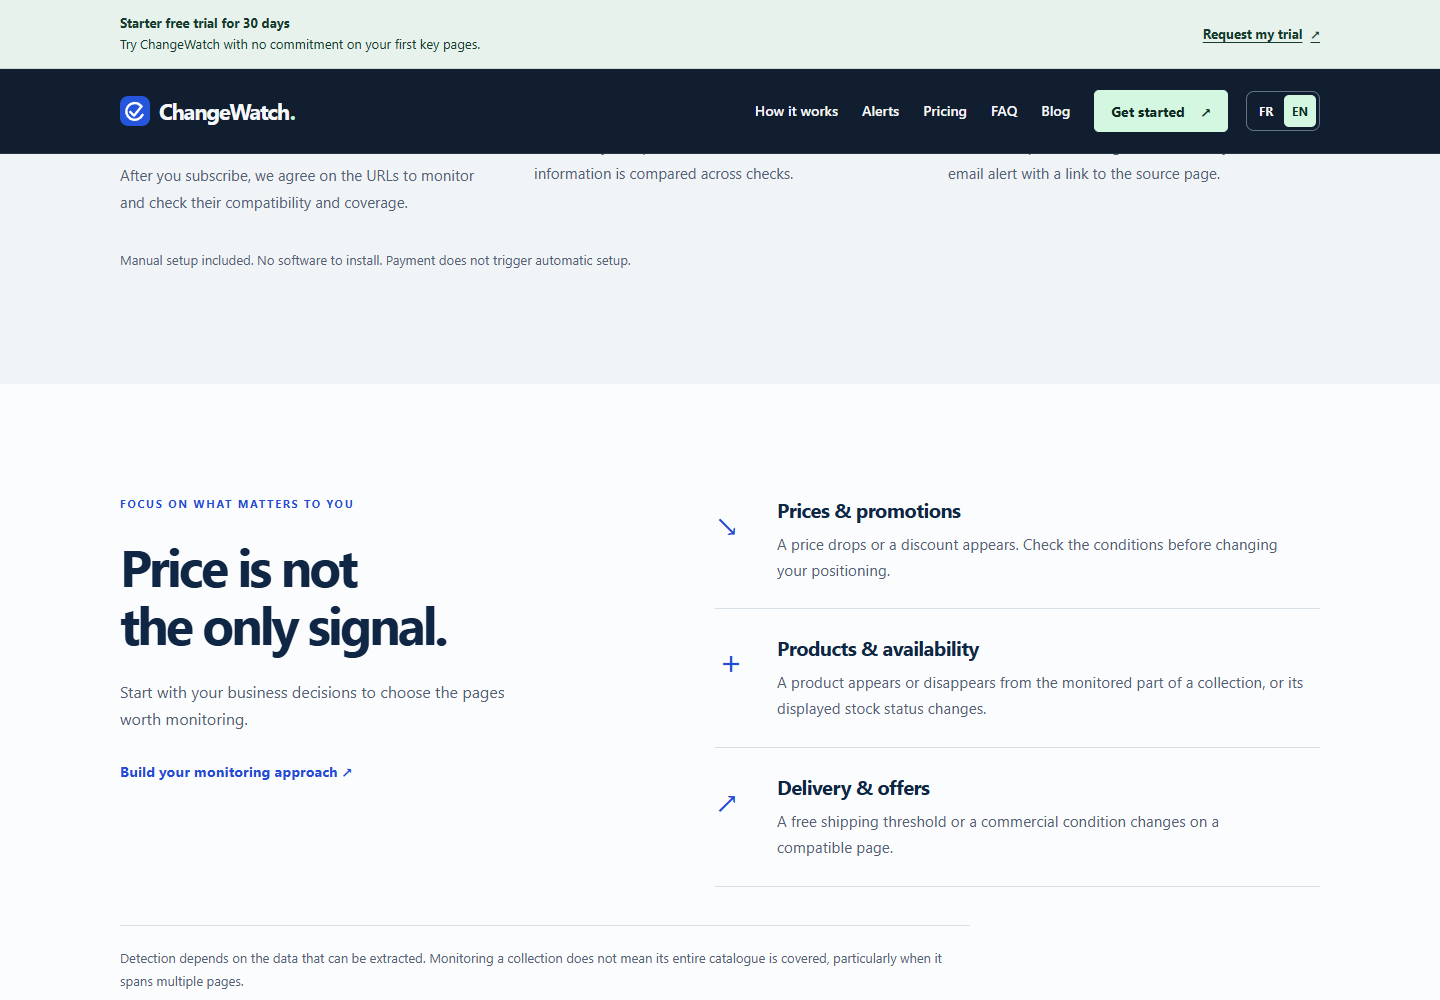
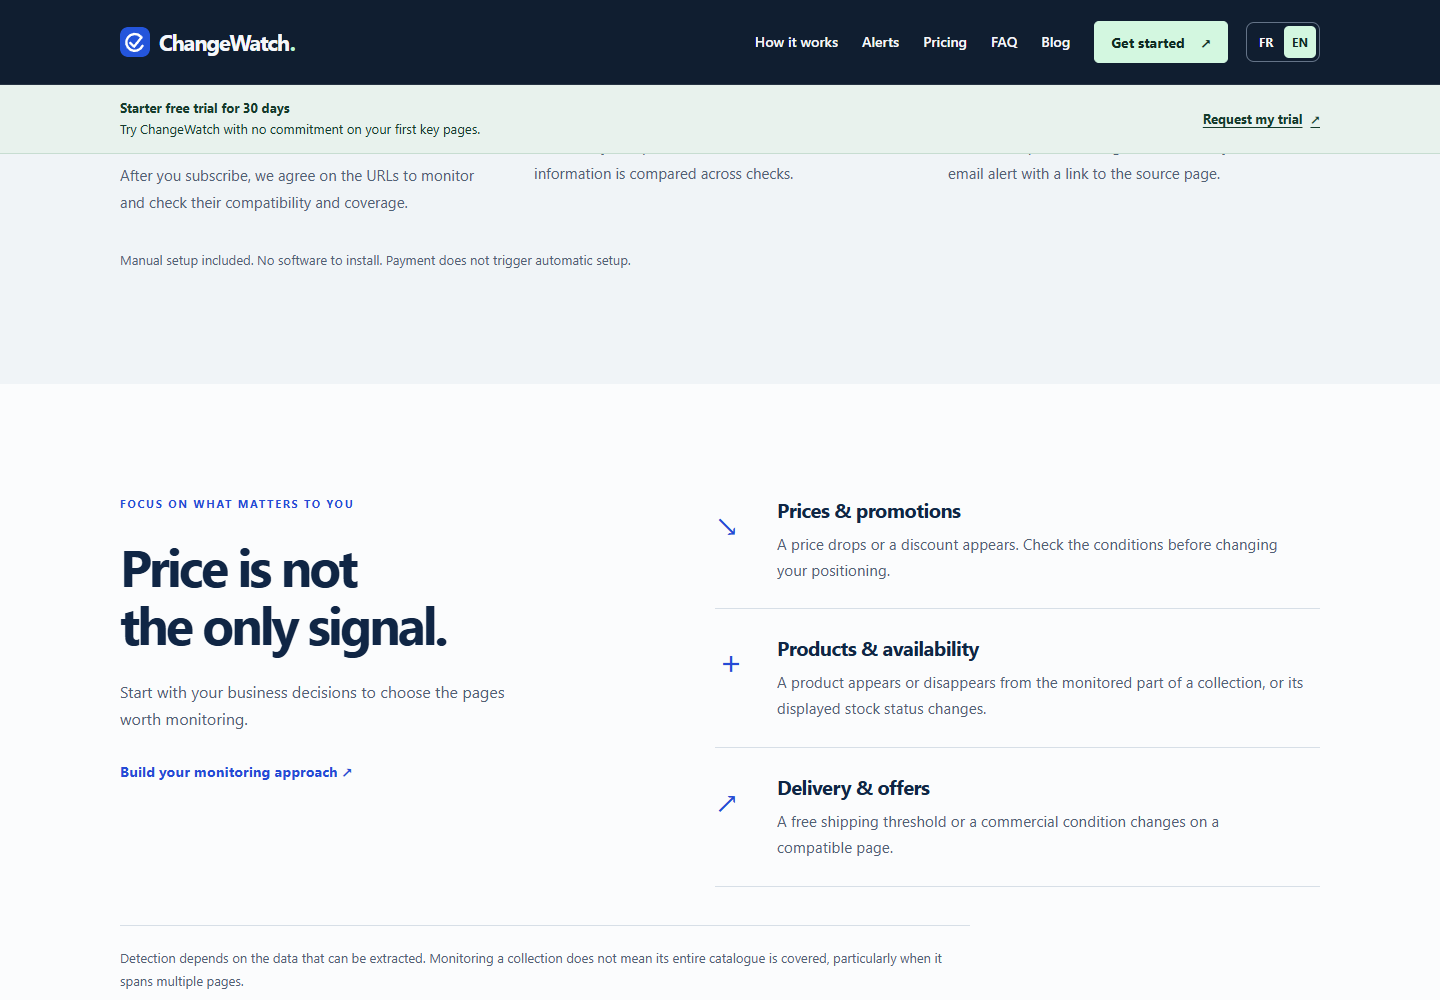
Place navigation above the sticky Starter announcement

Changed region(s): [[0.0, 0.0, 1.0, 0.155]]

diff --git a/index.html b/index.html
@@ -33,7 +33,6 @@
 <body class="story-home">
 <a class="skip-link" href="#contenu">Aller au contenu</a>
 <div class="sticky-top">
-<aside class="launch-banner" aria-label="Essai gratuit Starter pendant 30 jours"><div class="container"><p><strong><span class="banner-desktop-title">Essai gratuit Starter pendant 30 jours</span><span class="banner-mobile-title">30 jours gratuits sur Starter</span></strong><span>Testez ChangeWatch sans engagement sur vos premières pages clés.</span></p><a href="#demande" data-starter-trial>Demander mon essai <span aria-hidden="true">↗</span></a></div></aside>
 <header class="header">
   <nav class="container nav" aria-label="Navigation principale">
     <a class="brand" href="#" aria-label="ChangeWatch, accueil"><img src="assets/favicon.svg" width="30" height="30" alt="">ChangeWatch<span class="brand-period">.</span></a>
@@ -45,6 +44,7 @@
     </div>
   </nav>
 </header>
+<aside class="launch-banner" aria-label="Essai gratuit Starter pendant 30 jours"><div class="container"><p><strong><span class="banner-desktop-title">Essai gratuit Starter pendant 30 jours</span><span class="banner-mobile-title">30 jours gratuits sur Starter</span></strong><span>Testez ChangeWatch sans engagement sur vos premières pages clés.</span></p><a href="#demande" data-starter-trial>Demander mon essai <span aria-hidden="true">↗</span></a></div></aside>
 </div>
 <main id="contenu">
   <section class="story-hero" aria-labelledby="hero-title">

diff --git a/en/index.html b/en/index.html
@@ -33,7 +33,6 @@
 <body class="story-home">
 <a class="skip-link" href="#contenu">Skip to content</a>
 <div class="sticky-top">
-<aside class="launch-banner" aria-label="Starter free trial for 30 days"><div class="container"><p><strong><span class="banner-desktop-title">Starter free trial for 30 days</span><span class="banner-mobile-title">30 days free on Starter</span></strong><span>Try ChangeWatch with no commitment on your first key pages.</span></p><a href="#demande" data-starter-trial>Request my trial <span aria-hidden="true">↗</span></a></div></aside>
 <header class="header">
   <nav class="container nav" aria-label="Main navigation">
     <a class="brand" href="#" aria-label="ChangeWatch, home"><img src="/assets/favicon.svg" width="30" height="30" alt="">ChangeWatch<span class="brand-period">.</span></a>
@@ -45,6 +44,7 @@
     </div>
   </nav>
 </header>
+<aside class="launch-banner" aria-label="Starter free trial for 30 days"><div class="container"><p><strong><span class="banner-desktop-title">Starter free trial for 30 days</span><span class="banner-mobile-title">30 days free on Starter</span></strong><span>Try ChangeWatch with no commitment on your first key pages.</span></p><a href="#demande" data-starter-trial>Request my trial <span aria-hidden="true">↗</span></a></div></aside>
 </div>
 <main id="contenu">
   <section class="story-hero" aria-labelledby="hero-title">

diff --git a/assets/launch-offer.css b/assets/launch-offer.css
@@ -1,4 +1,4 @@
-/* Shared natural-height sticky stack: announcement followed by navigation. */
+/* Shared natural-height sticky stack: navigation followed by announcement. */
 .launch-banner{background:#e8f2ed;color:#163b2c;border-bottom:1px solid #c7ddd1;font-size:.8125rem;line-height:1.6}
 .launch-banner>.container{display:flex;align-items:center;justify-content:space-between;gap:12px;padding-block:12px}
 .launch-banner p{margin:0}.launch-banner p span{margin-left:10px}.launch-banner a{color:inherit;font-weight:750;flex-shrink:0;text-underline-offset:3px;padding:5px 0}
@@ -8,7 +8,7 @@
 
 .story-home .sticky-top{position:sticky;top:0;z-index:10;max-height:100dvh;overflow-y:auto}
 .story-home .sticky-top .header{position:static}
-.story-home .sticky-top .launch-banner{position:sticky;top:0;z-index:1}
+.story-home .sticky-top .launch-banner{position:static}
 .launch-banner a{display:inline-flex;align-items:center;gap:8px;min-height:44px;text-decoration:underline}
 .launch-banner p span{display:block;margin-left:0}
 html:has(.sticky-top){scroll-padding-top:var(--sticky-offset,18rem)}

diff --git a/docs/starter-banner/README.md b/docs/starter-banner/README.md
@@ -1,46 +1,36 @@
-# Bandeau Starter sticky — validation locale
+# Header au-dessus du bandeau Starter — validation
 
-Branche créée depuis `origin/main` au commit `cde98b9` (PR #16 déjà intégrée par le propriétaire). Pas de fusion ni déploiement dans cette livraison.
+La PR #17 a déjà été fusionnée dans main (`51f0d08`). Le propriétaire a explicitement autorisé une nouvelle PR en brouillon pour ce correctif. Branche : `codex/header-above-starter-banner`, issue de ce main. Aucune fusion ni publication dans cette livraison.
 
-## Modification
+## Périmètre
 
-Le bandeau global FR/EN annonce désormais l’essai Starter de 30 jours et pointe vers `#demande`. Son attribut `data-starter-trial` réutilise sans modification les mécanismes de présélection et de tracking existants. Le contenu tarifaire, les quatre liens Stripe, la promotion Business, le formulaire complet et les scripts Analytics/Ads/consentement sont inchangés.
+Seul l’ordre du bloc sticky change : **header/navigation, puis bandeau Starter**. Le contenu HTML du header et du bandeau est conservé ; l’aside est déplacé après le header dans `.sticky-top`, sans duplication. Son positionnement sticky individuel est retiré : les deux composants restent dans le flux naturel du conteneur sticky commun, fixé au haut de la fenêtre pendant le scroll.
 
-Le bandeau et le header sont regroupés dans `.sticky-top`, un conteneur `position:sticky; top:0`, de hauteur naturelle. Le header reste dans le flux sous le bandeau : aucun offset fixe entre eux. Le conteneur est limité à la hauteur du viewport et reste défilable si le menu ou le zoom dépassent cette hauteur ; le bandeau reste sticky dans ce conteneur. Son niveau de superposition laisse le lien d’évitement clavier au-dessus.
+Aucune hauteur fixe ni nouveau JavaScript. Le ResizeObserver existant mesure toujours la hauteur cumulée et alimente `--sticky-offset` pour les ancres. Aucune modification du formulaire, des tarifs, de Business/Pro, des quatre liens Stripe, de Turnstile, de GA4/Ads/consentement, des événements, des articles ou du SEO.
 
-`ResizeObserver` ne pilote pas le sticky : il mesure uniquement la hauteur cumulée pour `--sticky-offset` / `scroll-padding-top`. Cela évite de figer une hauteur fragile pour les ancres malgré traductions, menu ouvert, retours à la ligne et zoom. Le formulaire garde une marge supplémentaire de 16 px. Sans JS, le sticky CSS reste actif avec un dégagement d’ancre conservateur de 18 rem ; l’envoi du formulaire conserve son alternative email existante.
+Mobile inchangé : breakpoint `max-width:600px`, titre court, phrase secondaire masquée, CTA >=44 px ; bandeau de **57 px** à 320/375/390 dans les deux langues. Dès 601 px, le titre long et la phrase secondaire restent visibles. Les dimensions et styles calculés du header, du bandeau et de leurs descendants sont comparés à `2187f36`, à chacune des six largeurs.
 
-## CTA et mesure
+## Parcours et tracking
 
-Le clic sélectionne l’essai dans `request_type` et donne le focus au formulaire, sans remplir les autres champs. Les autres CTA continuent de sélectionner la compatibilité. Le choix reste modifiable.
+Le CTA conserve `href="#demande"` et `data-starter-trial`. Il présélectionne l’essai FR/EN sans remplir les autres champs. Les autres CTA conservent la compatibilité et le choix reste modifiable. `free_trial_click` reste limité au consentement Analytics avec `plan:starter`, `destination:demande` ; `commercial_cta_click` est conservé. Pas de donnée formulaire ni `request_type` vers Google. Les conversions restent liées au succès Formspree.
 
-Après consentement Analytics : un `free_trial_click` avec `plan:starter`, `destination:demande`, routé uniquement vers GA4 ; `commercial_cta_click` conservé. Aucun événement d’essai ne devient une conversion Ads. Aucun changement du label Ads, de `generate_lead`, des champs envoyés ou de Turnstile. Aucune donnée personnelle ni `request_type` dans les événements.
+## Tests et limites
 
-## Contrôles
+Les logs sont dans `logs/`. `starter-banner` vérifie le header à y=0, le bandeau exactement sous son bord inférieur, leur visibilité avant/après un scroll de 2500 px, l’absence de chevauchement/espace/overflow, les ancres tarifs/demande/fonctionnement/alertes/FAQ, le menu mobile, le focus clavier et le lien d’évitement, la zone CTA, les dimensions/styles inchangés, axe, le zoom CSS 200 %, la présélection et les événements fixes après consentement.
 
-Logs dans `logs/`. Les tests utilisent Edge headless et interceptent les services externes : pas de demande Formspree, paiement ou collecte Google réels. Les événements Google sont vérifiés dans l’iframe ou avec le tag simulé, pas dans les rapports GA4.
+Le premier essai utilisait une comparaison PNG stricte de chaque composant déplacé. Elle a échoué ; le test compare désormais les styles et dimensions indépendamment de la position, complété par les captures réelles, plutôt que d’exiger des pixels identiques après déplacement vertical.
 
-Le test `starter-banner` couvre FR/EN, textes et marqueur, 320/375/390/768/1024/1440 px, scroll de 2500 px, position visible du bandeau et absence de recouvrement par le header, menu mobile, ancres tarifs/fonctionnement/alertes/FAQ/formulaire, titre et type de demande visibles, focus clavier, zone CTA >=44 px, zoom CSS 200 %, axe, refus et événement consenti à paramètres fixes. Il compare la section tarifs et le formulaire à main.
+Services externes interceptés dans les tests : aucun paiement, contact Formspree ou événement Google réel. La réception des événements dans les rapports Google n’est pas validée. Le lecteur d’écran matériel et le zoom natif du navigateur restent des vérifications manuelles. Le débordement global préexistant à 320 px avec texte à 200 % demeure inchangé, documenté dans le rapport Starter.
 
-Suites exécutées — toutes PASS : starter-banner, starter-trial, browser, i18n, consent, consent-ux, google-ads, blog-launch et git diff --check. Les premiers essais du nouveau test ont nécessité de normaliser CRLF/LF et de préciser un sélecteur de test ambigu ; aucun changement métier associé.
+## Captures régénérées
 
-Limites : zoom natif et lecteur d’écran matériel non validés ; le contrôle automatisé 200 % utilise le zoom CSS. Le débordement global préexistant à 320 px avec texte agrandi à 200 % reste documenté dans le rapport Starter, sans aggravation. Validation visuelle propriétaire requise avant publication.
-
-## Captures
-
-| Langue | Largeur | Haut de page | Après scroll |
+| Langue | Largeur | Haut | Après scroll |
 |---|---|---|---|
 | FR | 1440 | [haut](screenshots/fr-1440-top.png) | [scroll](screenshots/fr-1440-scroll.png) |
 | FR | 320 | [haut](screenshots/fr-320-top.png) | [scroll](screenshots/fr-320-scroll.png) |
 | EN | 1440 | [haut](screenshots/en-1440-top.png) | [scroll](screenshots/en-1440-scroll.png) |
 | EN | 320 | [haut](screenshots/en-320-top.png) | [scroll](screenshots/en-320-scroll.png) |
 
-## Ajustement mobile de la PR #17
+## Résultats finaux
 
-Breakpoint existant : `max-width:600px`. Le titre court réel est affiché uniquement sur mobile ; le titre long et la phrase secondaire restent inchangés dès 601 px. Deux variantes de texte dans le `strong` du bandeau évitent de fabriquer un titre via du contenu CSS : la variante masquée utilise `display:none`, donc n’est pas lue en double. Aucun autre élément HTML n’a été modifié.
-
-Le titre et le CTA sont côte à côte. Hauteur naturelle mesurée en FR et EN à 320/375/390 : **57 px**, contre **121,39 px** dans le commit validé `13eba2b`. Le CTA conserve une hauteur cliquable de 44 px, son focus visible et son marqueur Starter. Aucune hauteur fixe de bandeau ajoutée.
-
-Le test compare les captures du bloc bandeau + header à la version validée aux largeurs 768/1024/1440 : **identité pixel par pixel** dans Edge headless. La phrase secondaire reste visible à ces largeurs et est masquée à 320/375/390. Les contrôles sticky, ancres, menu, présélection, consentement et événements restent actifs. Tous les scripts, le formulaire et le tracking sont inchangés par cet ajustement.
-
-Les huit captures du tableau ci-dessus ont été régénérées ; les captures desktop sont identiques à la livraison précédente. Les limites de validation manuelle indiquées plus haut restent applicables.
+PASS : `starter-banner`, `starter-trial`, `browser`, `i18n`, `consent`, `consent-ux`, `google-ads`, `blog-launch`, `git diff --check`. Exécution locale avec Playwright/Edge, huit captures FR/EN régénérées. Tous les scripts existants sont identiques à main ; seul l’ordre HTML et la règle de positionnement individuel du bandeau changent côté site.
